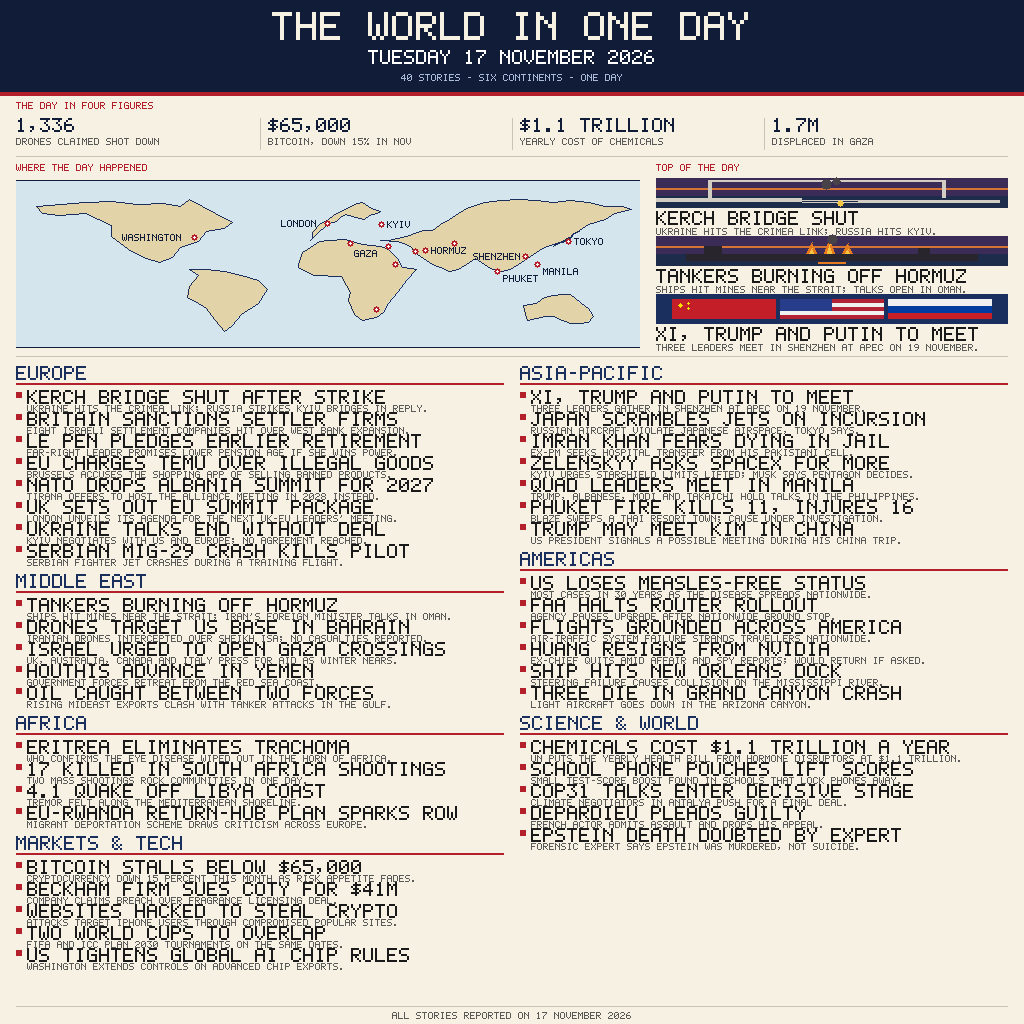
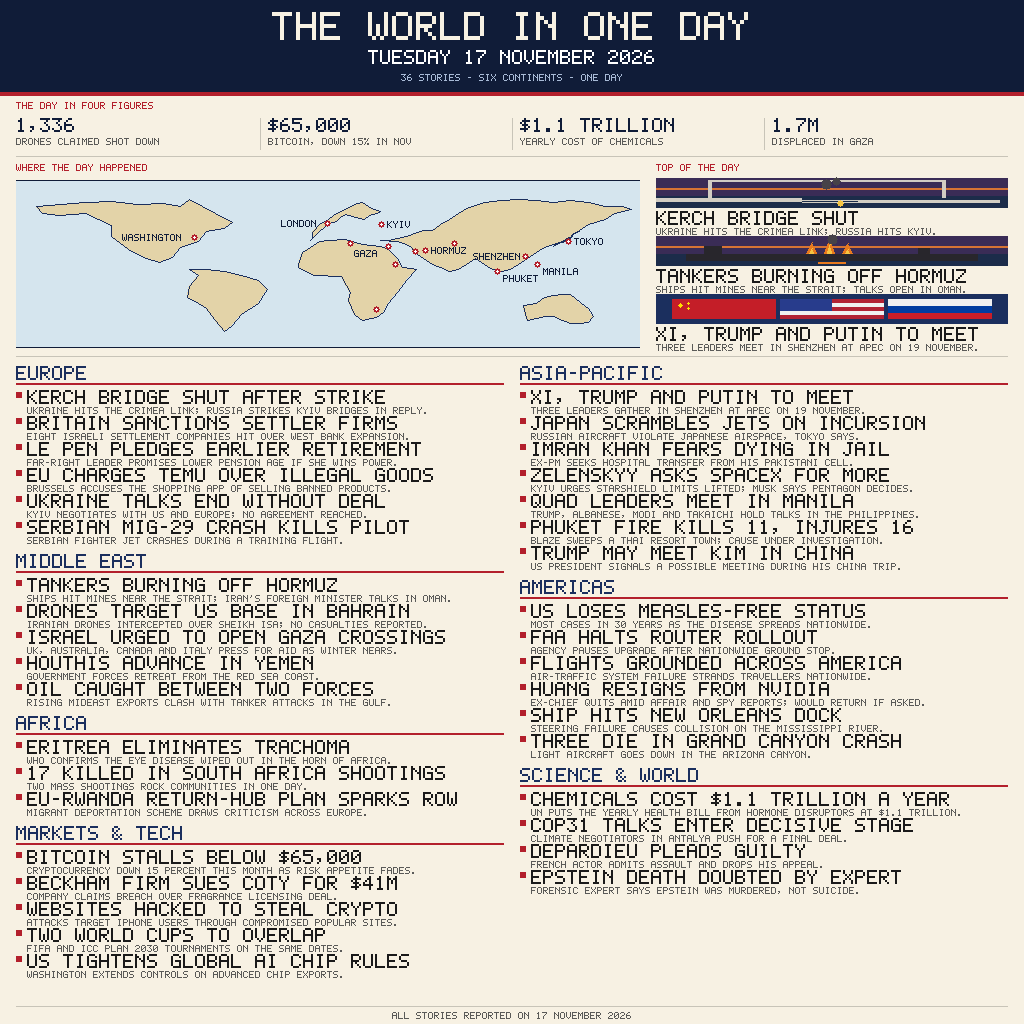
news-image-20261117 v2 fix: 3px clear gap between headline and deck
Deck was drawn 1px below the headline (y+15 vs headline bottom y+13),
so deck ascenders merged into headline glyphs. Deck now at y+17
(3 clear rows), block height 22 -> 26. Dropped the 4 weakest stories
to fit the taller rows (NATO Albania summit, UK EU summit package,
Libya 4.1 quake, school phone pouches); 36 stories remain, masthead
count updated 40 -> 36. Verified: pixel-measured gap is exactly 3px
on all 36 stories; main.py output byte-identical across 2 runs.

Changed region(s): [[0.5, 0.375, 0.9375, 0.875], [0.0, 0.375, 0.4375, 0.6875], [0.0, 0.7188, 0.4688, 0.9688]]

diff --git a/render.py b/render.py
@@ -12,7 +12,7 @@ Layout (1024 x 1024, deep-navy masthead on cream paper):
   figures strip     -- the day in four figures
   map + top stories -- a simplified world map with the day's
                        hotspots, beside three illustrated leads
-  story grid        -- 40 verified stories in seven sections,
+  story grid        -- 36 verified stories in seven sections,
                        two columns, headline + one-line deck each
 """
 
@@ -221,7 +221,7 @@ class Canvas:
         return lines
 
 # ------------------------------------------------------------- the day
-# 40 stories, all reported on Tuesday 17 November 2026.
+# 36 stories, all reported on Tuesday 17 November 2026.
 # Each item: (headline <= 40 chars, deck <= 81 chars).
 SECTIONS = [
     ("EUROPE", [
@@ -233,10 +233,6 @@ SECTIONS = [
          "Far-right leader promises lower pension age if she wins power."),
         ("EU CHARGES TEMU OVER ILLEGAL GOODS",
          "Brussels accuses the shopping app of selling banned products."),
-        ("NATO DROPS ALBANIA SUMMIT FOR 2027",
-         "Tirana offers to host the alliance meeting in 2028 instead."),
-        ("UK SETS OUT EU SUMMIT PACKAGE",
-         "London unveils its agenda for the next UK-EU leaders' meeting."),
         ("UKRAINE TALKS END WITHOUT DEAL",
          "Kyiv negotiates with US and Europe; no agreement reached."),
         ("SERBIAN MIG-29 CRASH KILLS PILOT",
@@ -289,8 +285,6 @@ SECTIONS = [
          "WHO confirms the eye disease wiped out in the Horn of Africa."),
         ("17 KILLED IN SOUTH AFRICA SHOOTINGS",
          "Two mass shootings rock communities in one day."),
-        ("4.1 QUAKE OFF LIBYA COAST",
-         "Tremor felt along the Mediterranean shoreline."),
         ("EU-RWANDA RETURN-HUB PLAN SPARKS ROW",
          "Migrant deportation scheme draws criticism across Europe."),
     ]),
@@ -309,8 +303,6 @@ SECTIONS = [
     ("SCIENCE & WORLD", [
         ("CHEMICALS COST $1.1 TRILLION A YEAR",
          "UN puts the yearly health bill from hormone disruptors at $1.1 trillion."),
-        ("SCHOOL PHONE POUCHES LIFT SCORES",
-         "Small test-score boost found in schools that lock phones away."),
         ("COP31 TALKS ENTER DECISIVE STAGE",
          "Climate negotiators in Antalya push for a final deal."),
         ("DEPARDIEU PLEADS GUILTY",
@@ -395,7 +387,7 @@ def draw_masthead(cv):
     cv.rect(0, 0, W, 96, NAVY)
     cv.text_centred("THE WORLD IN ONE DAY", W // 2, 12, 4, CREAM)
     cv.text_centred("TUESDAY 17 NOVEMBER 2026", W // 2, 50, 2, WHITE)
-    cv.text_centred("40 STORIES - SIX CONTINENTS - ONE DAY", W // 2, 74, 1,
+    cv.text_centred("36 STORIES - SIX CONTINENTS - ONE DAY", W // 2, 74, 1,
                     (168, 186, 214))
     cv.rect(0, 92, W, 4, RED)
 
@@ -519,8 +511,10 @@ def draw_section_header(cv, x, y, name):
 def draw_story(cv, x, y, head, deck):
     cv.rect(x, y + 2, 6, 6, RED)
     cv.draw_text(head, x + 11, y, 2, INK)
-    cv.draw_text(deck, x + 11, y + 15, 1, GREY)
-    return 22  # block height
+    # Headline (scale 2) occupies rows y..y+13; deck starts at y+17,
+    # leaving rows y+14..y+16 (3px) clear between headline and deck.
+    cv.draw_text(deck, x + 11, y + 17, 1, GREY)
+    return 26  # block height: deck ends y+23, 2px clear to next story
 
 
 def draw_grid(cv, y_top):

diff --git a/README.md b/README.md
@@ -4,7 +4,7 @@
 [![rank](https://make.fun/badge/news-image-20261117/bayuadirahayu/makefun-news-image-20261117/rank.svg)](https://make.fun/bounty/news-image-20261117/leaderboard?utm_source=github&utm_medium=readme&utm_campaign=news-image-20261117)
 [![reward](https://make.fun/badge/news-image-20261117/bayuadirahayu/makefun-news-image-20261117/reward.svg)](https://make.fun/bounty/news-image-20261117?utm_source=github&utm_medium=readme&utm_campaign=news-image-20261117)
 
-The World in One Day — a dense newspaper front page summing up Tuesday 17 November 2026: 40 verified stories across seven sections and six continents, a world map marking the day's hotspots, the day in four figures, and three illustrated leads (the Kerch Bridge strike, tankers burning off Hormuz, the Xi–Trump–Putin meeting). Drawn from scratch in Python with a hand-built 5x7 bitmap font and a hand-rolled PNG encoder — no network, no downloads.
+The World in One Day — a dense newspaper front page summing up Tuesday 17 November 2026: 36 verified stories across seven sections and six continents, a world map marking the day's hotspots, the day in four figures, and three illustrated leads (the Kerch Bridge strike, tankers burning off Hormuz, the Xi–Trump–Putin meeting). Drawn from scratch in Python with a hand-built 5x7 bitmap font and a hand-rolled PNG encoder — no network, no downloads.
 
 ## Run it
 
